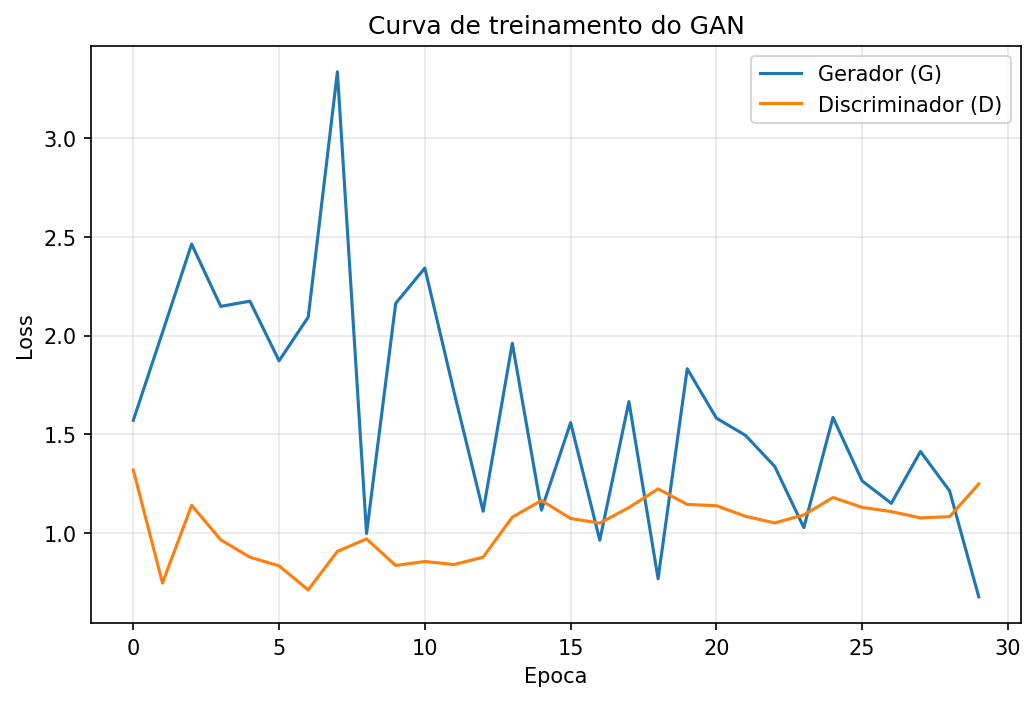
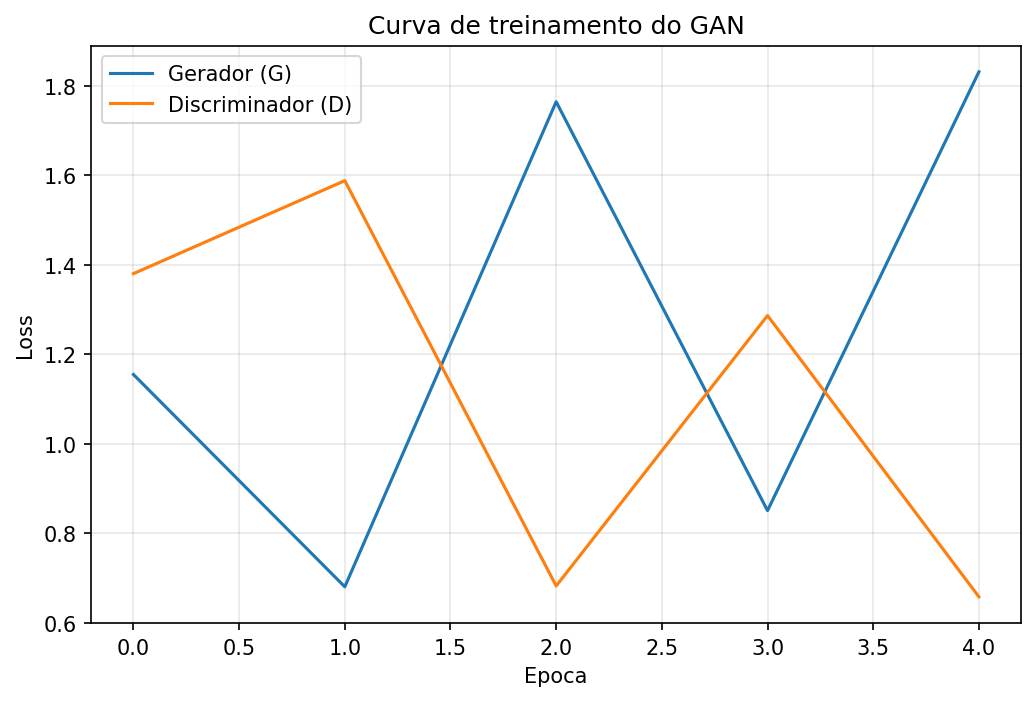
ATUALIZDO

diff --git a/gan_mnist.py b/gan_mnist.py
@@ -30,7 +30,7 @@ from torch.utils.data import DataLoader
 from torchvision import datasets, transforms
 from torchvision.utils import make_grid, save_image
 
-LATENT_DIM = 100
+LATENT_DIM = 100 # ESPACO LATENTE
 IMG_SIZE = 28 * 28
 OUTPUT_DIR = os.path.join(os.path.dirname(os.path.abspath(__file__)), "output")
 
@@ -94,7 +94,7 @@ def train(epochs, batch_size, lr, sample_every):
     generator = Generator().to(device)
     discriminator = Discriminator().to(device)
 
-    criterion = nn.BCELoss()
+    criterion = nn.BCELoss()#FUNCAO DE PERDA
     opt_g = torch.optim.Adam(generator.parameters(), lr=lr, betas=(0.5, 0.999))
     opt_d = torch.optim.Adam(discriminator.parameters(), lr=lr, betas=(0.5, 0.999))
 
@@ -110,8 +110,7 @@ def train(epochs, batch_size, lr, sample_every):
             real_labels = torch.ones(bs, 1, device=device)
             fake_labels = torch.zeros(bs, 1, device=device)
 
-            # --- Treina o Discriminador ---
-            # Ele quer dar nota alta para o real e nota baixa para o falso.
+          
             opt_d.zero_grad()
 
             pred_real = discriminator(real_imgs)
@@ -123,15 +122,14 @@ def train(epochs, batch_size, lr, sample_every):
             loss_fake = criterion(pred_fake, fake_labels)
 
             loss_d = loss_real + loss_fake
-            loss_d.backward()
-            opt_d.step()
+            loss_d.backward() #backpropagation
+            opt_d.step()# ajuste de peso
 
-            # --- Treina o Gerador ---
-            # Ele quer que o Discriminador confunda suas imagens com reais.
+          
             opt_g.zero_grad()
             pred = discriminator(fake_imgs)
             loss_g = criterion(pred, real_labels)
-            loss_g.backward()
+            loss_g.backward()#backpropagation
             opt_g.step()
 
         g_losses.append(loss_g.item())
